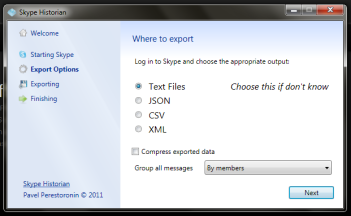
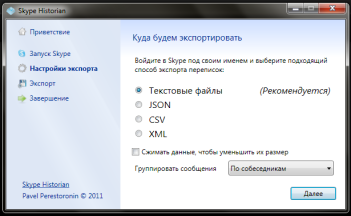
Russification

diff --git a/ru/tutorial.html b/ru/tutorial.html
@@ -69,9 +69,9 @@ License: Creative Commons Attribution
                 <img src="images/tutorial-2.png" alt="Choosing an Output"/>
                 
                 <p>
-                    On this step you should choose the output. Choose the "Text Files" if you don't known what you need (you'll be able to open these files in any text editor like Notepad).
-                    You can then choose how should your messages be grouped. Grouping means that your messages will be grouped in subfolders for faster search then.
-                    Finally, you can choose to compress all data into a single ZIP file to reduce used space.
+                    На этом шаге вам нужно выбрать, в какой формат экспортировать свои переписки. Выберете "Текстовые файлы", если не знаете, что предпочесть.
+                    Вы также можете выбрать, как сгруппировать сообщения по папкам, и наконец, сжимать или не сжимать все данные в единственный ZIP архив для
+                    уменьшения занимаемого места.
                 </p>
                 <p>Нажмите "Далее".</p>
                 
@@ -79,22 +79,14 @@ License: Creative Commons Attribution
                 
                 <img src="images/tutorial-3.png" alt="Choosing a destination folder"/>
                 
-                <p>Choose a folder you want to save your chats to and press "Next". <strong>Вход в Skype должен быть выполнен.</strong></p>
-                
-                <h2>Ожидание</h2>
-                
-                <img src="images/tutorial-4.png" alt="Awaiting for the Skype"/>
-                
-                <p>
-                    At that step Skype Historian connects to the Skype. <strong>You may need to switch to the Skype window and press the "Allow access" button on the top of the window.</strong>
-                </p>
+                <p>Выберете папку, в которую хотите сохранить свои переписки и нажмите "Далее". <strong>Вход в Skype должен быть выполнен.</strong></p>
                 
                 <h2>Экспорт</h2>
                 
                 <img src="images/tutorial-5.png" alt="Exporting"/>
                 
                 <p>
-                    Skype Historian экспортирует ваши переписки. <strong>:)</strong>
+                    Skype Historian экспортирует ваши переписки. <strong>Не выполняйте выход Skype, пока процесс не будет завершён, иначе, процесс будет прерван.</strong>
                 </p>
                 
                 <h2>Завершение</h2>
@@ -102,8 +94,7 @@ License: Creative Commons Attribution
                 <img src="images/tutorial-6.png" alt="Finished"/>
                 
                 <p>
-                    Ready! Your chats are exported and saved. You may choose to show the exported data (opens the Windows Explorer).
-                    Also, you may tick the "Start again" checkbox to run Skype Historian from the start (for example, if you want to export to another format).
+                    Готово! Ваши переписки сохранены. <strong>:)</strong>
                 </p>
             </div>
         </div>
